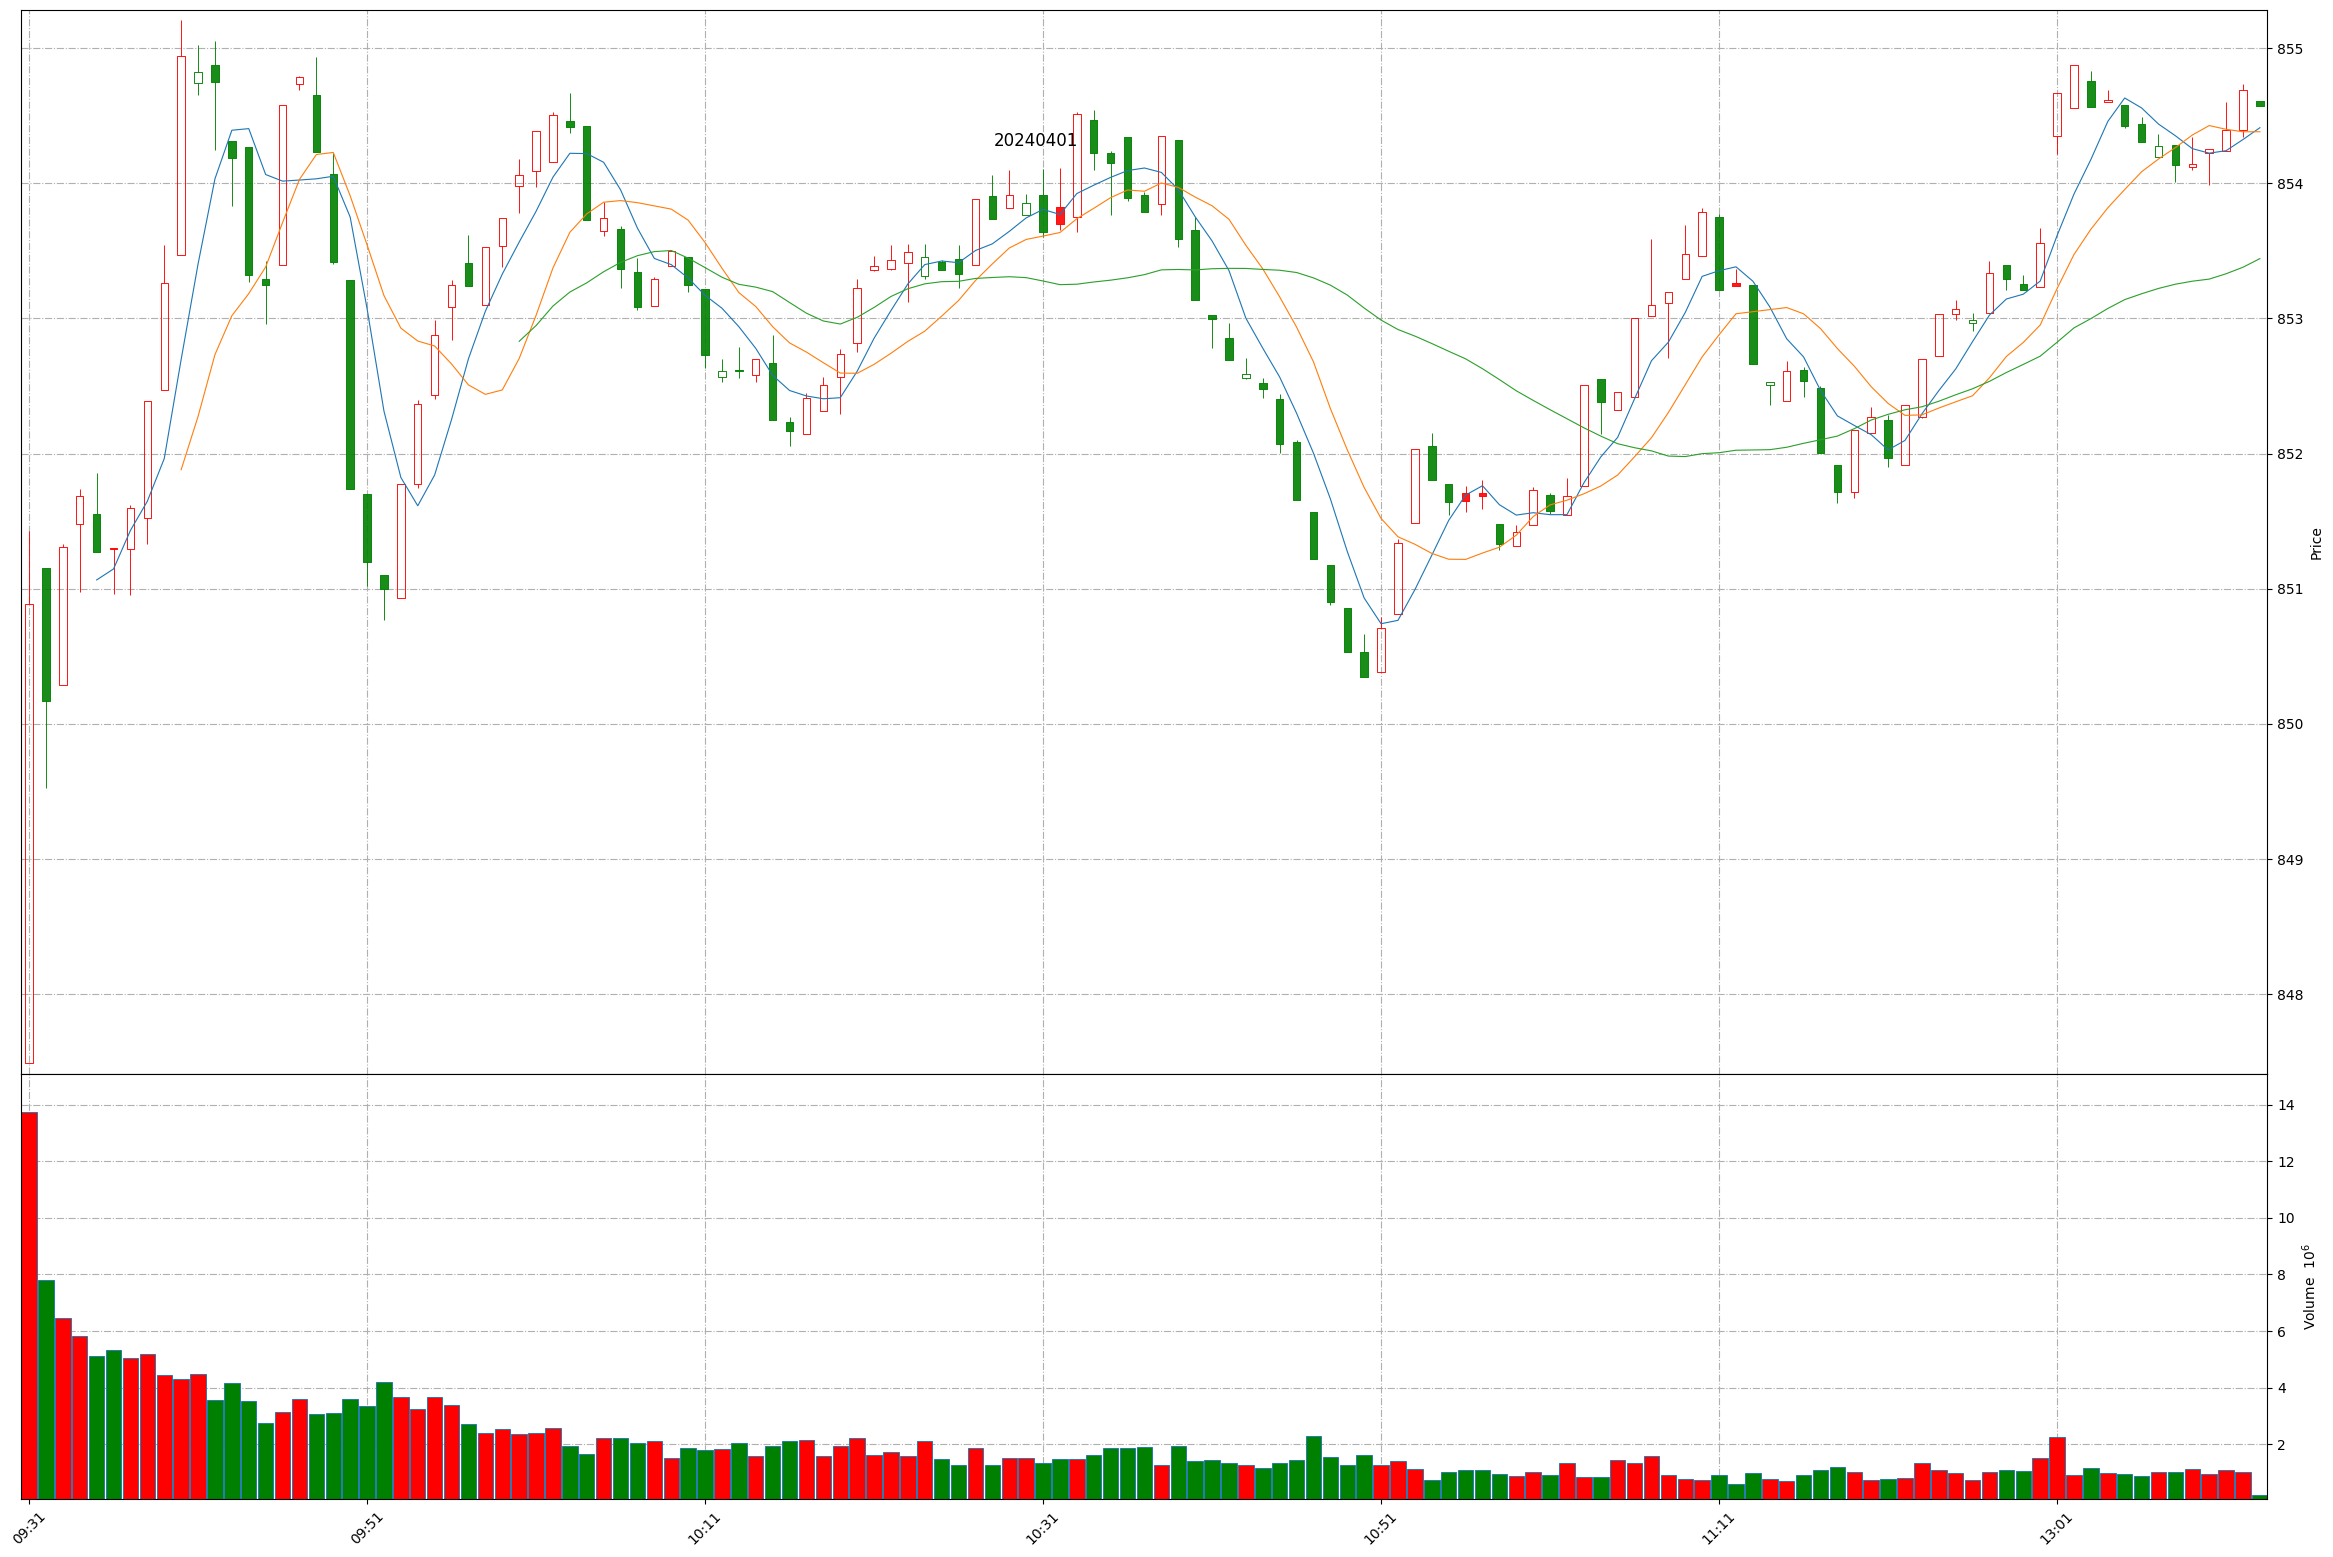
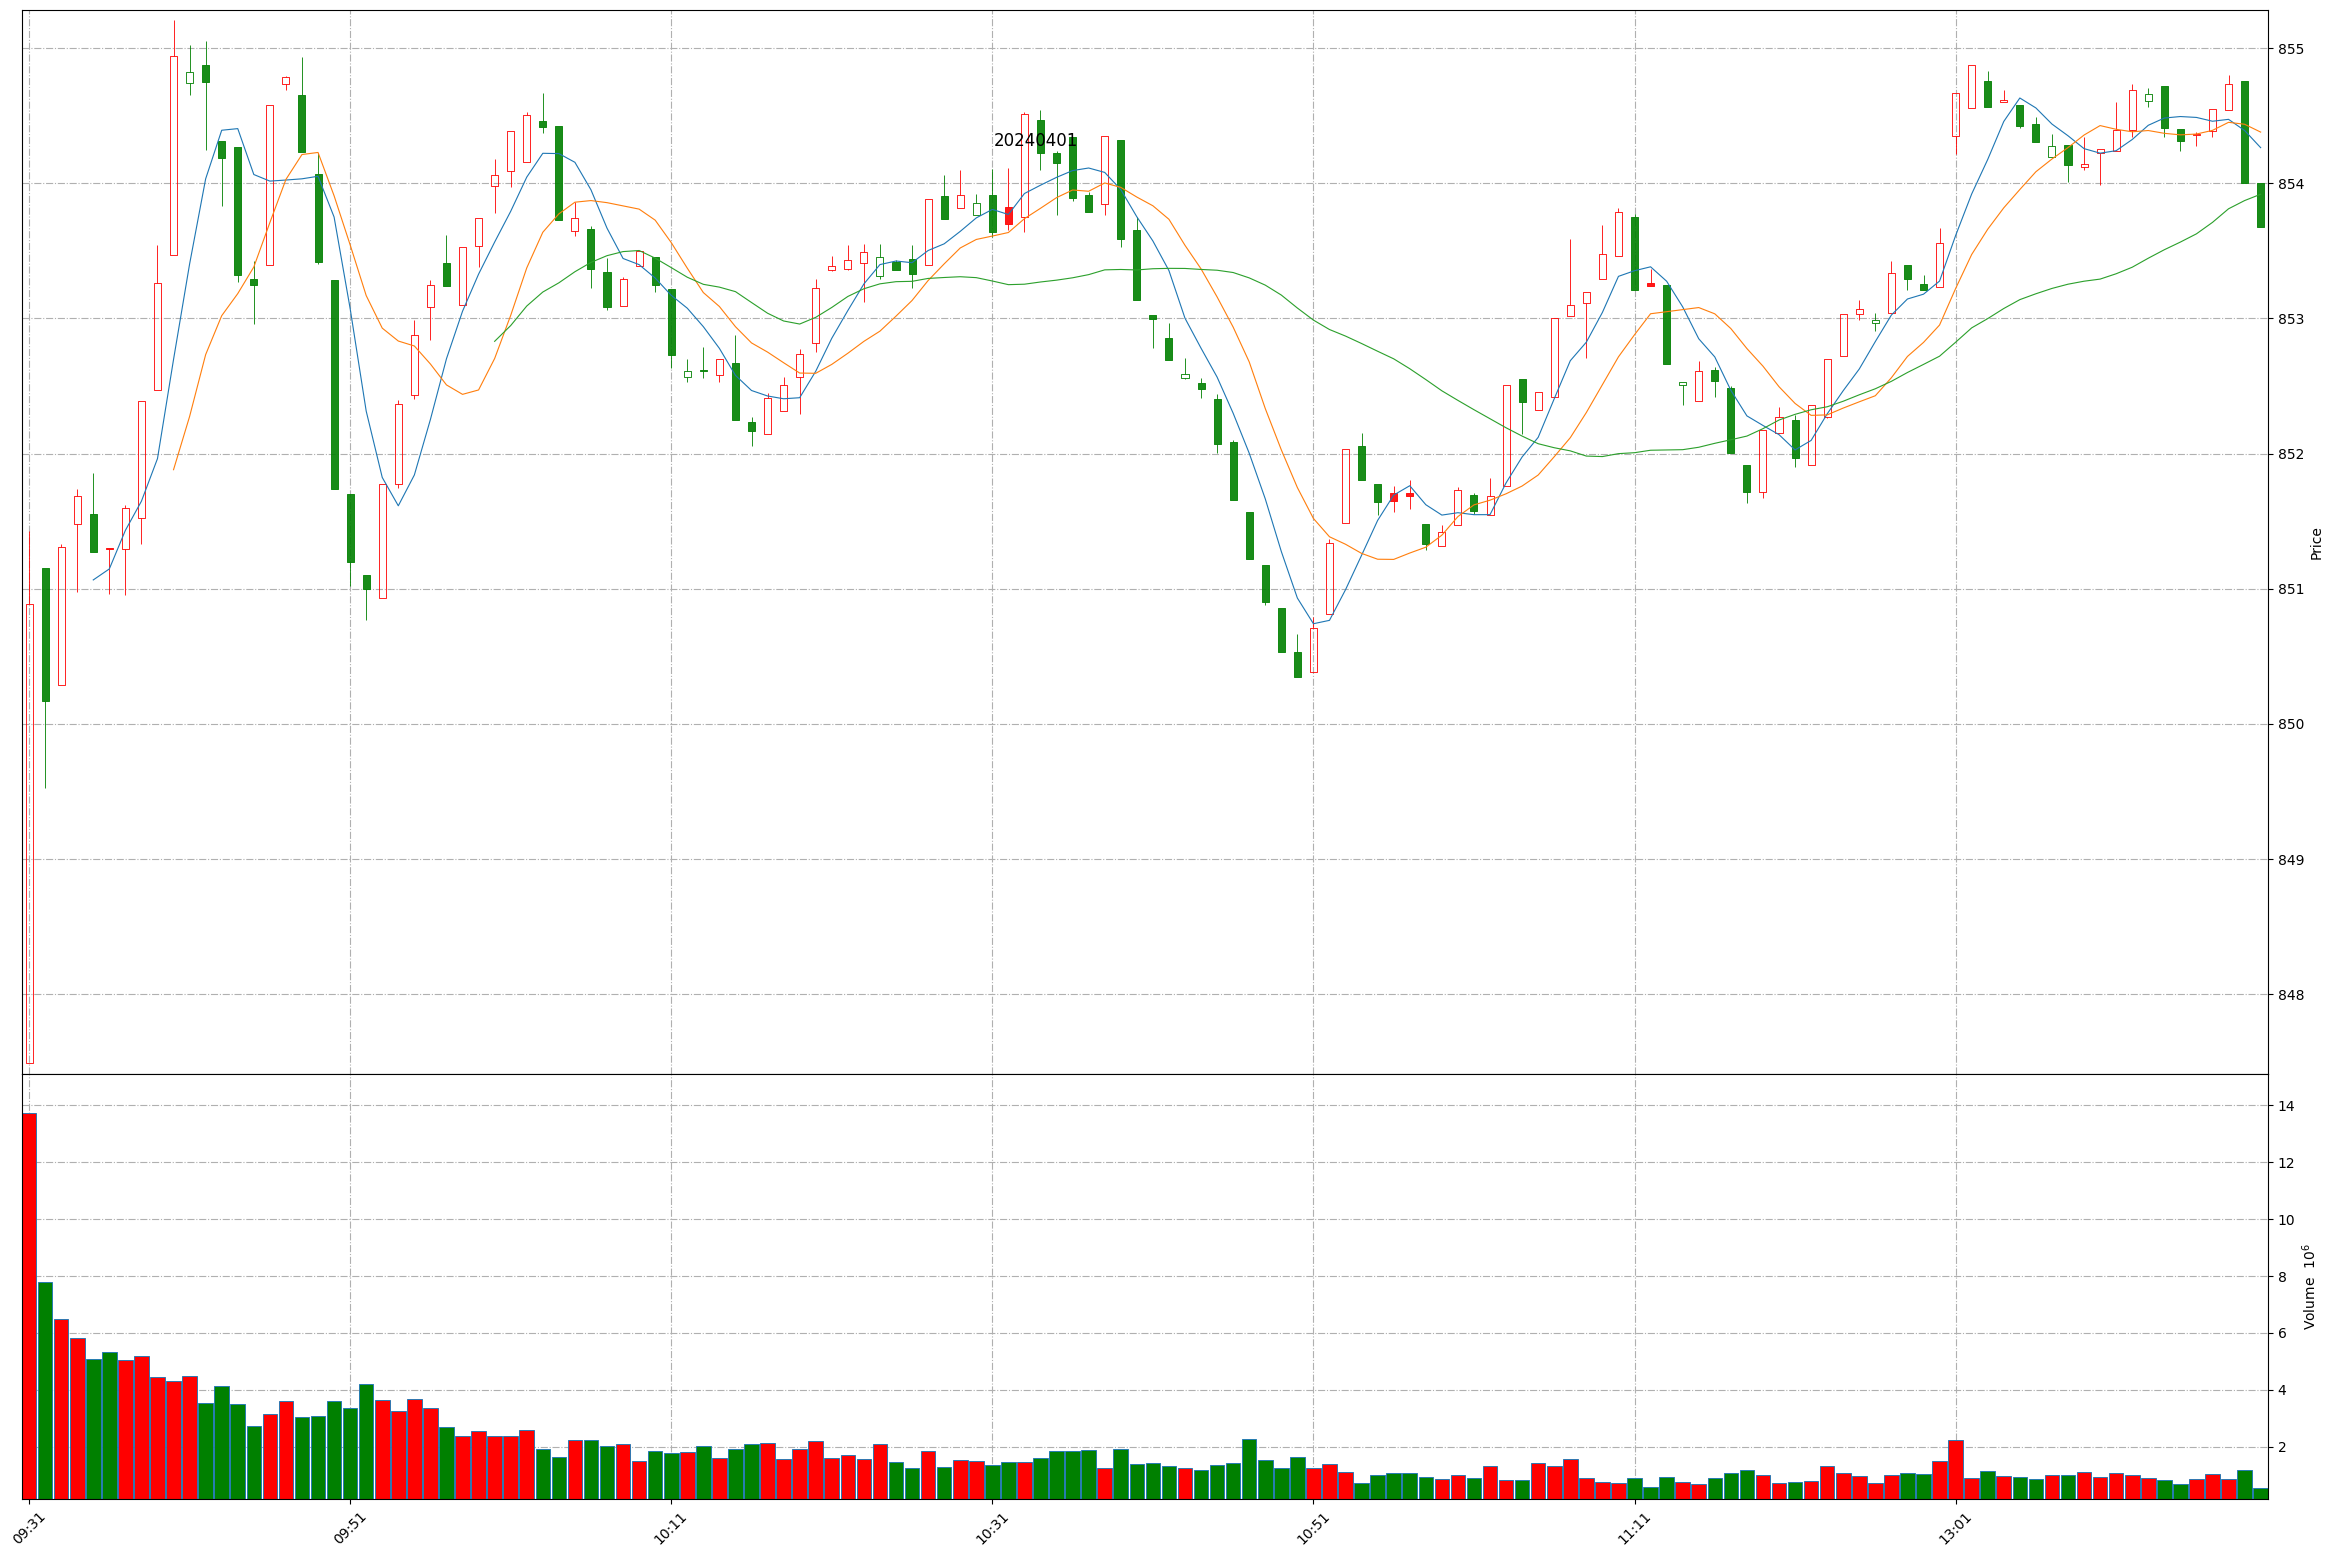
Github action update at 2024-04-01 13:19:58.

diff --git a/README.md b/README.md
@@ -1,11 +1,11 @@
 
 # Daily-A-share-market-quotes 每日 A 股指数（5min 更新）- 20240401
 
-### 上证指数 20240401 13:12
+### 上证指数 20240401 13:19
 ![](./fig/2024/4/20240401-sh000001.png)
 
-### 深证成指 20240401 13:12
+### 深证成指 20240401 13:19
 ![](./fig/2024/4/20240401-sz399001.png)
 
-### 北证50 20240401 13:12
+### 北证50 20240401 13:19
 ![](./fig/2024/4/20240401-bj899050.png)
